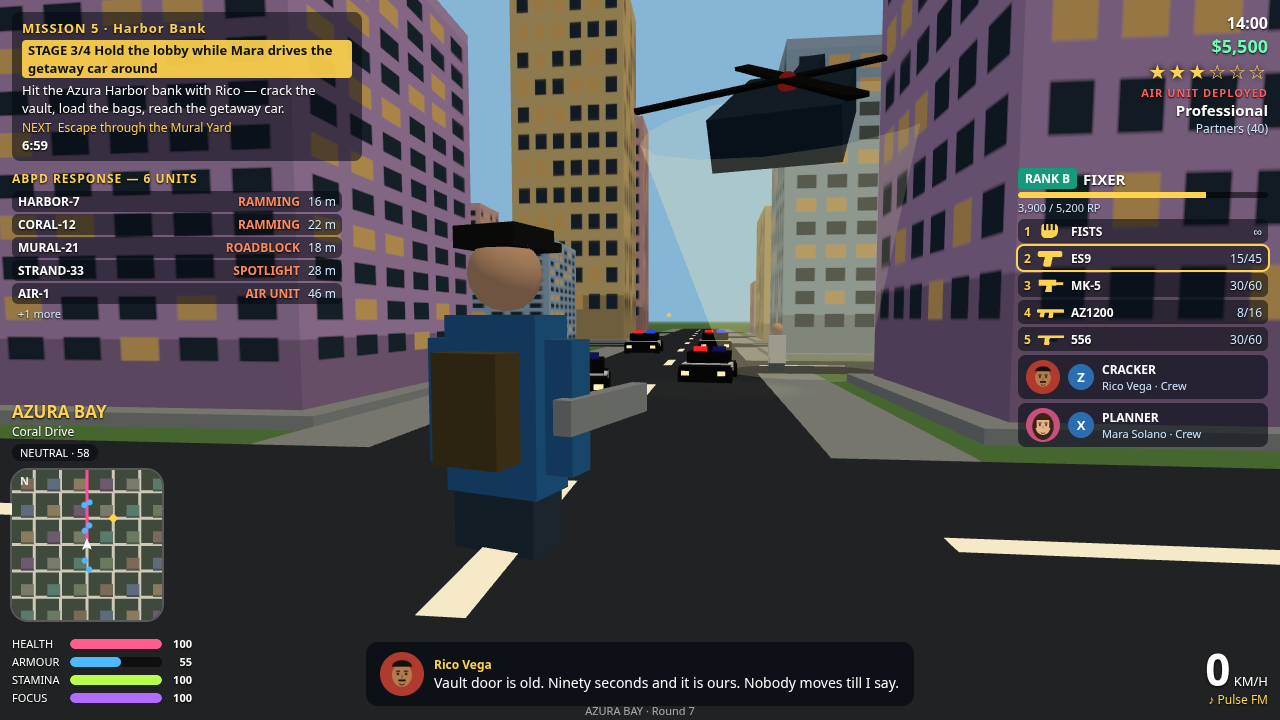
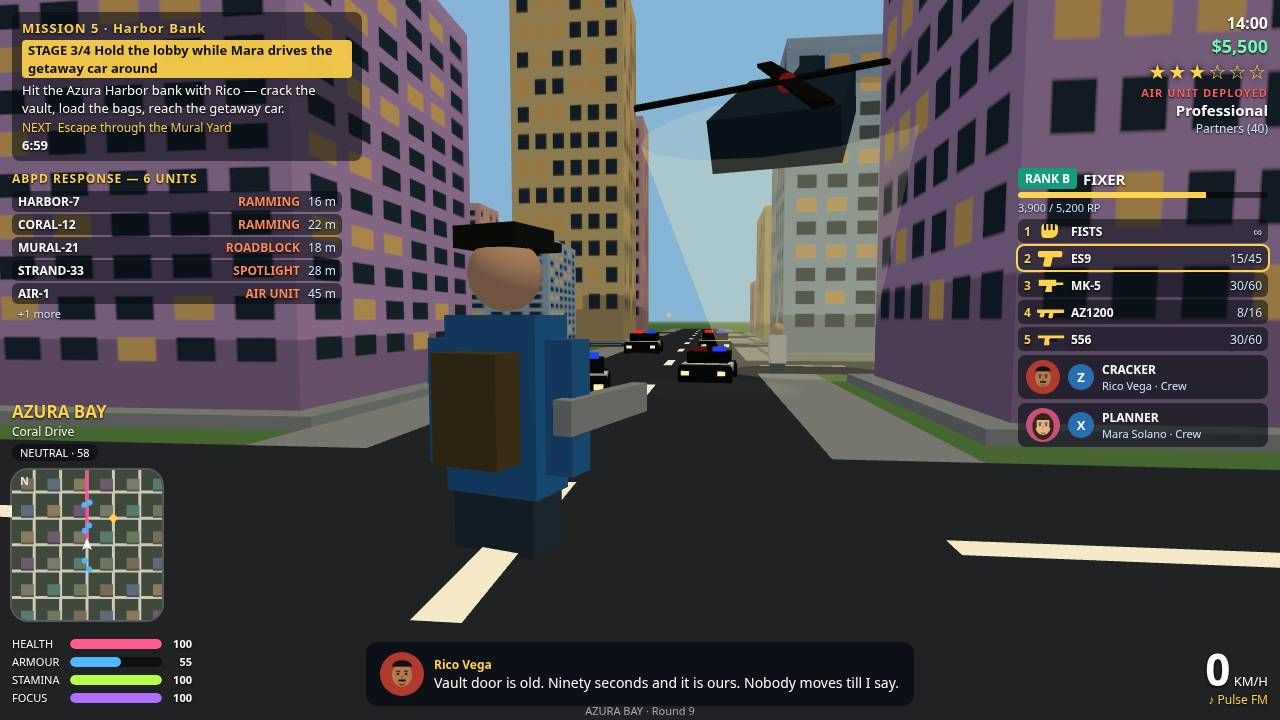
Round 9b (recorded r23): build tag Round 7 -> Round 9 + re-shot 4 screenshots

diff --git a/game/src/config.js b/game/src/config.js
@@ -53,6 +53,6 @@ export const PLACES = {
 export const GAME = {
   title: 'AZURA BAY',
   subtitle: 'AZURA BAY open world: 91 story missions across Solmaris',
-  build: 'AZURA BAY · Round 7',
+  build: 'AZURA BAY · Round 9',
   chapters: 5,
 };
